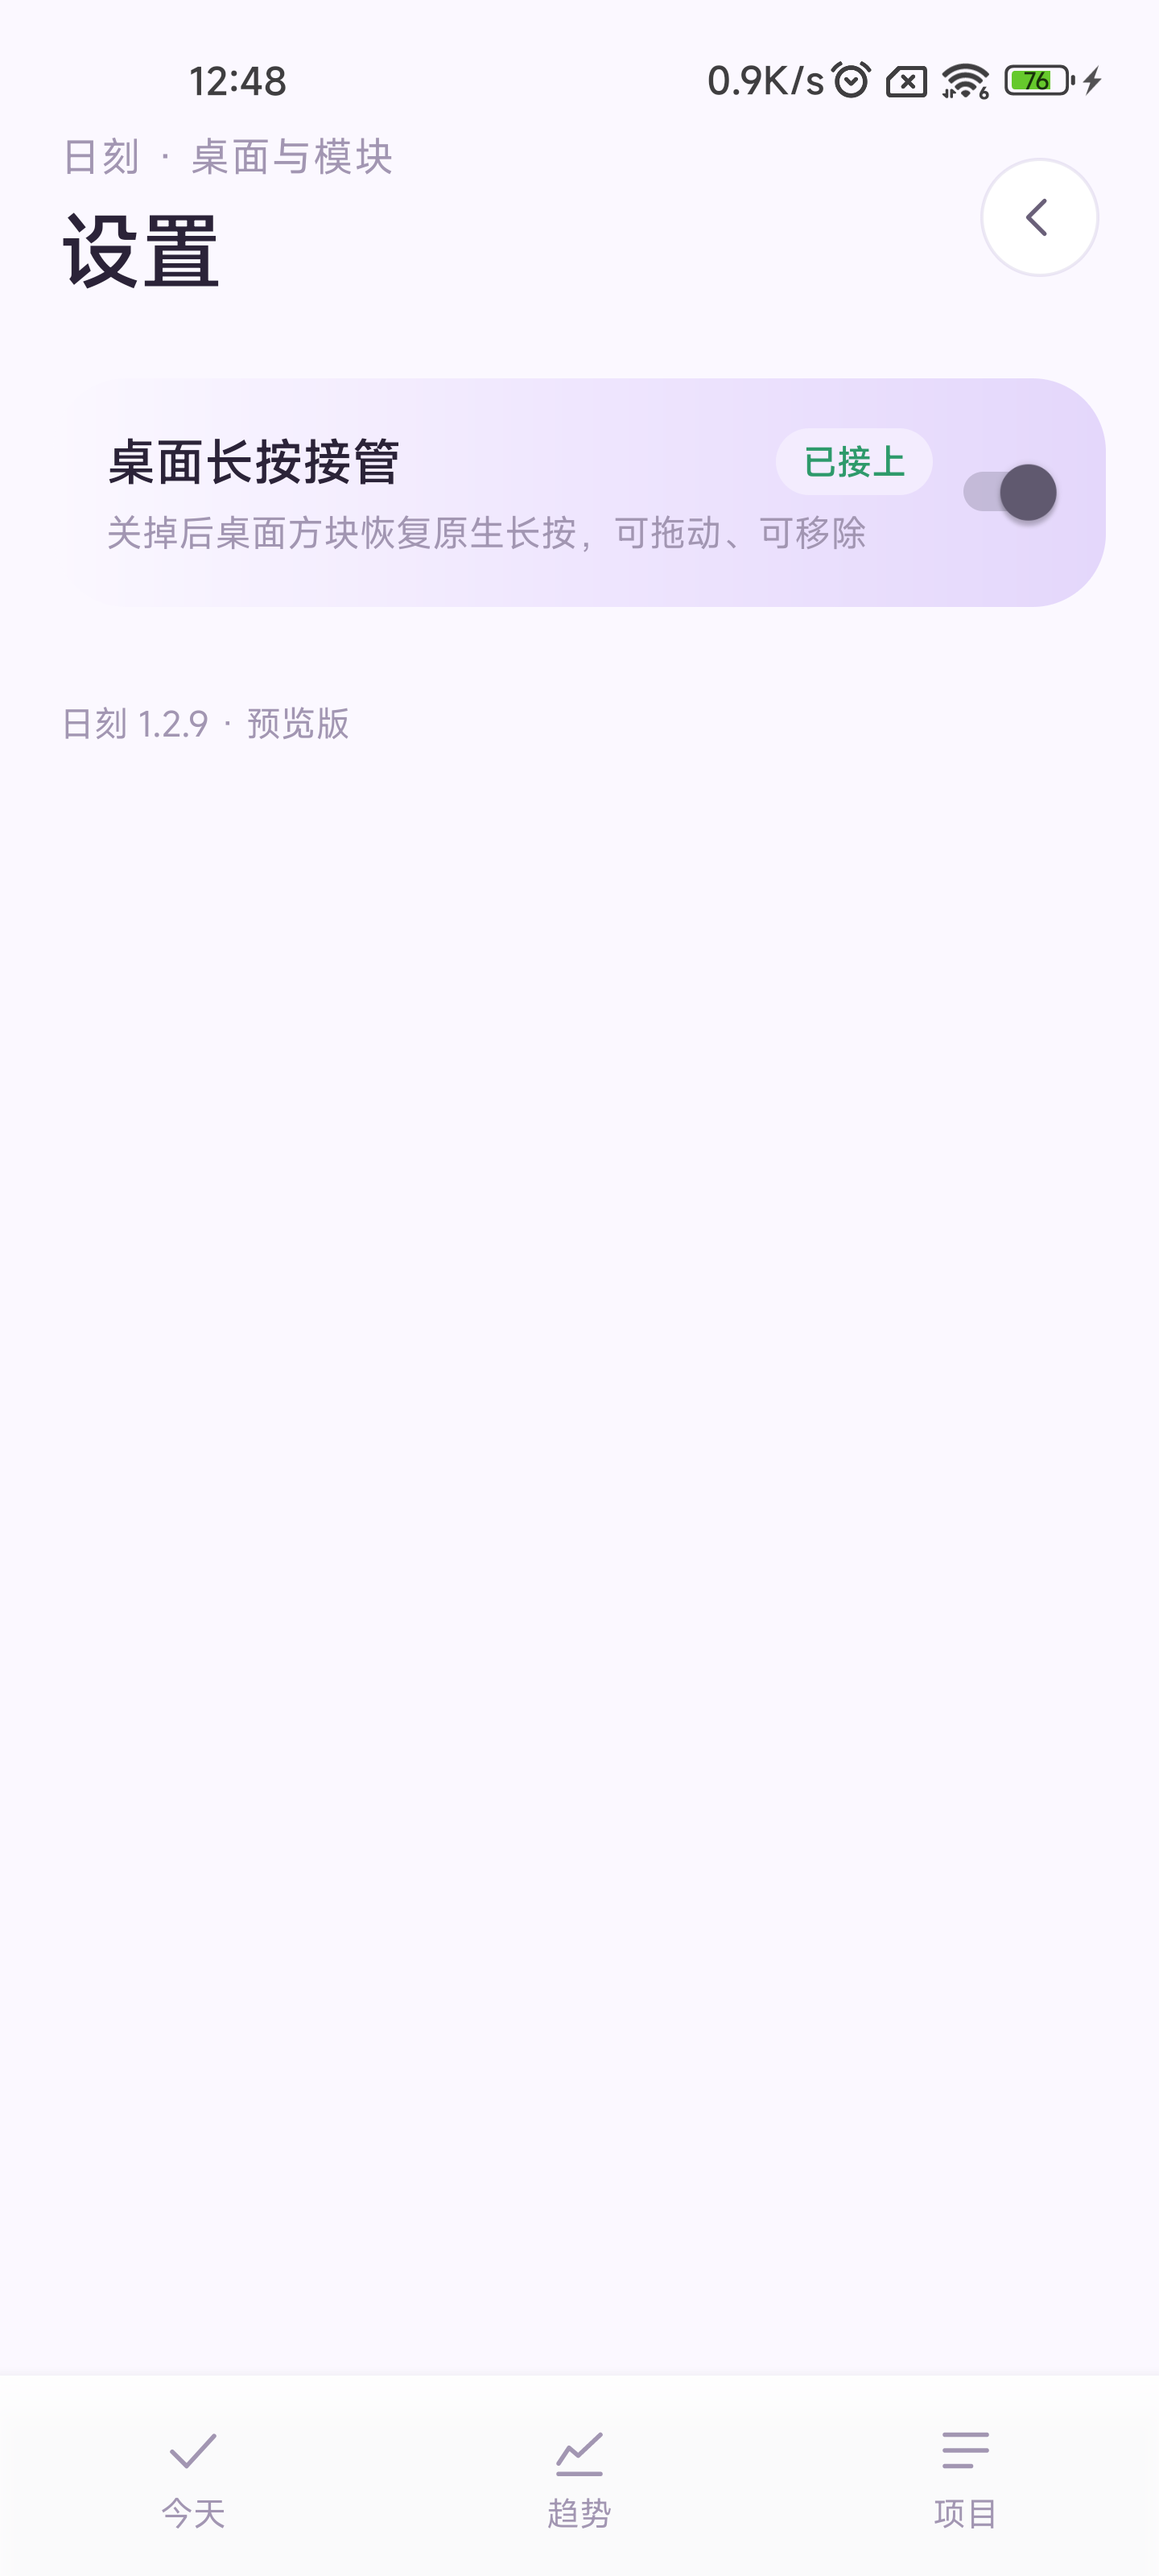
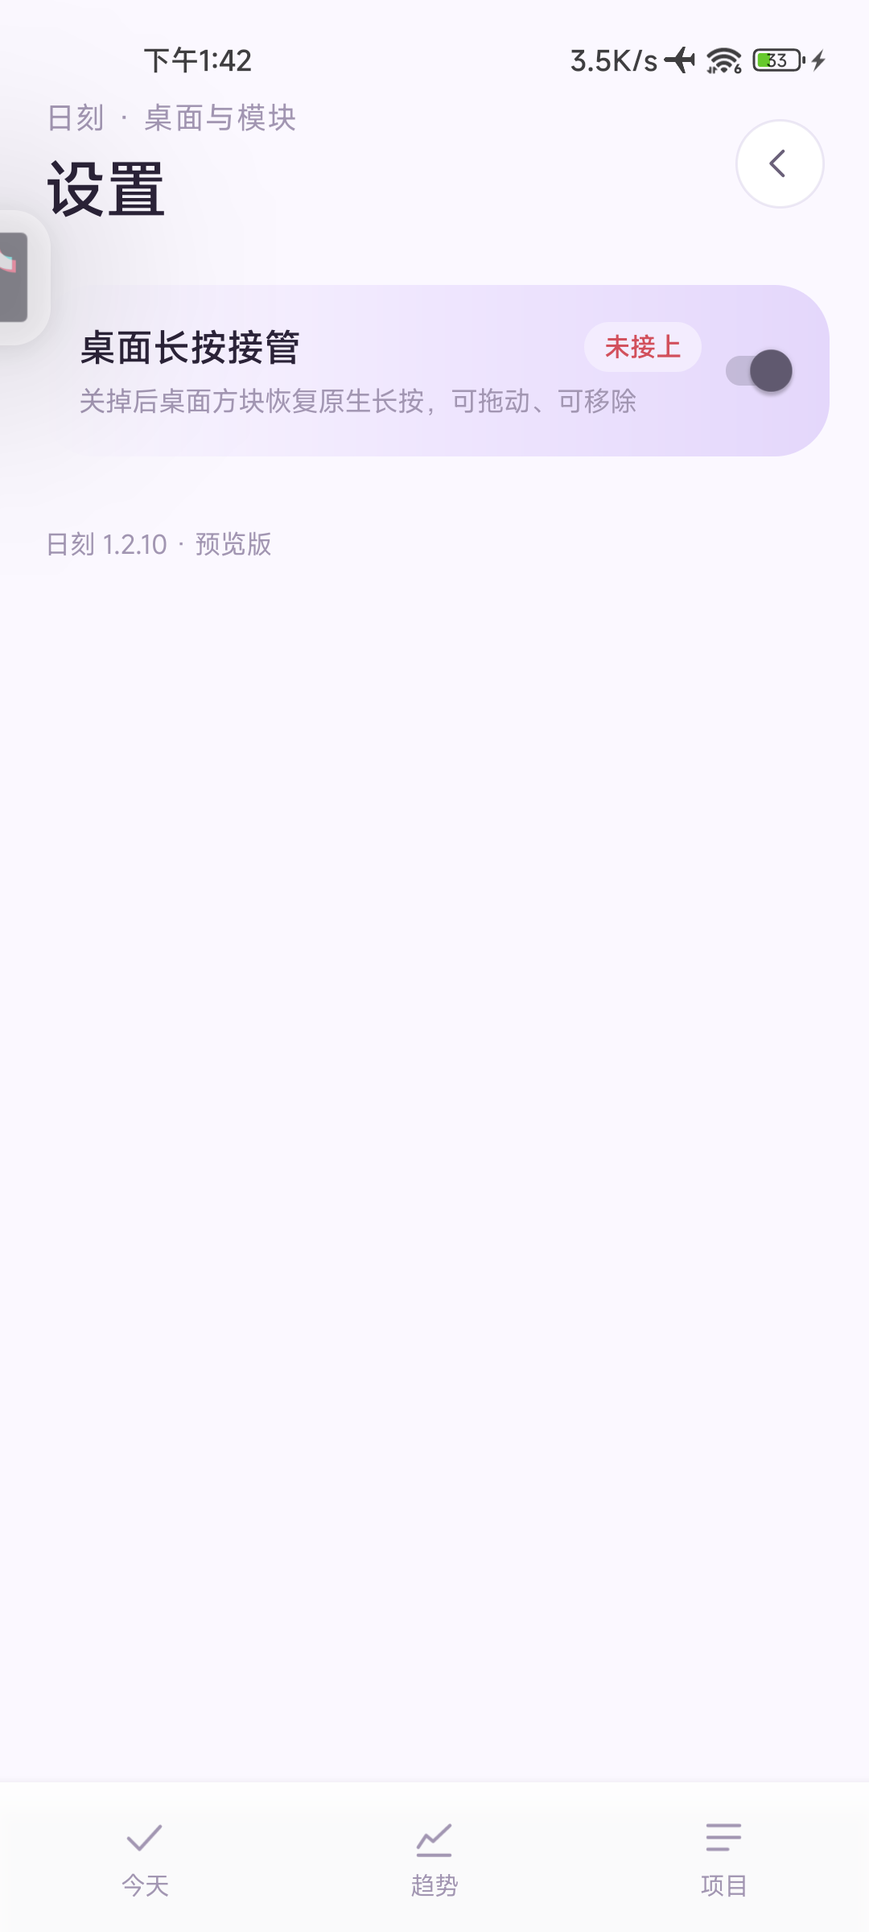
1.2.10：桌面加/减组后 App 今天页立即刷新

diff --git a/DailyScale/app/src/main/java/com/beike/daytally/MainActivity.kt b/DailyScale/app/src/main/java/com/beike/daytally/MainActivity.kt
@@ -50,6 +50,7 @@ class MainActivity : AppCompatActivity() {
     private var lastTabKey = ""
     private var lastTabMs = 0L
     private var syncReceiver: BroadcastReceiver? = null
+    private var dataReceiver: BroadcastReceiver? = null
 
     override fun onCreate(savedInstanceState: Bundle?) {
         super.onCreate(savedInstanceState)
@@ -129,12 +130,30 @@ class MainActivity : AppCompatActivity() {
             this, syncReceiver, IntentFilter(SyncManager.ACTION_SYNCED),
             ContextCompat.RECEIVER_NOT_EXPORTED
         )
+
+        /* 桌面方块加/减组后，WidgetProvider 会主动发这条广播。
+           如果 App 进程还活着，就在这里当场重绘当前页，不用等下一次同步或切 Tab。 */
+        dataReceiver = object : BroadcastReceiver() {
+            override fun onReceive(c: android.content.Context?, i: android.content.Intent?) {
+                repo.ensureToday()
+                refreshCurrent()
+            }
+        }
+        ContextCompat.registerReceiver(
+            this, dataReceiver, IntentFilter(com.beike.daytally.widget.WidgetRefresh.ACTION_DATA_CHANGED),
+            ContextCompat.RECEIVER_NOT_EXPORTED
+        )
+
         /* 顺便把「桌面长按接管」开关的当前状态同步给桌面进程的钩子 */
         com.beike.daytally.ui.ProjectsView.sendHookSwitch(this, com.beike.daytally.ui.ProjectsView.hookEnabled(this))
     }
 
     override fun onStart() {
         super.onStart()
+        /* 从桌面/后台回来时，数据可能已经被方块加/减过；先重绘当前页，不能只做同步。
+           之前这里只发同步请求，同步还没回来时页面会停在旧颜色，切 Tab 才恢复。 */
+        repo.ensureToday()
+        refreshCurrent()
         /* 首次打开；从后台回来也补一次。只在 Wi-Fi 下走，避免拿流量去连家里局域网。 */
         SyncManager.request(this, "app_open")
     }
@@ -142,6 +161,8 @@ class MainActivity : AppCompatActivity() {
     override fun onDestroy() {
         syncReceiver?.let { runCatching { unregisterReceiver(it) } }
         syncReceiver = null
+        dataReceiver?.let { runCatching { unregisterReceiver(it) } }
+        dataReceiver = null
         super.onDestroy()
     }
 
@@ -247,6 +268,16 @@ class MainActivity : AppCompatActivity() {
     private fun openSettings() {
         sound.sheetOpen()
         switchView("settings")
+    }
+
+    /** 只重绘当前可见页：桌面方块改数据、App 回前台都用它，避免隐藏页做无用重建 */
+    private fun refreshCurrent() {
+        when (current) {
+            "home" -> home.render()
+            "trend" -> trend.render()
+            "projects" -> projects.render()
+            "settings" -> settings.render()
+        }
     }
 
     private fun switchView(key: String) {

diff --git a/DailyScale/app/src/main/java/com/beike/daytally/widget/WidgetProvider.kt b/DailyScale/app/src/main/java/com/beike/daytally/widget/WidgetProvider.kt
@@ -123,6 +123,7 @@ open class WidgetProvider(private val key: String) : AppWidgetProvider() {
                 /* 点方块同时把大卡切到这个项目：两者是一套东西，原型里就是这么联动的 */
                 WeekWidget.setCurrentKey(context, k)
                 refreshAll(context)
+                WidgetRefresh.notifyApp(context)
             }
             ACTION_REMOVE -> {
                 /* 来自 Vector 模块：桌面上长按方块 = 退一组 */
@@ -134,6 +135,7 @@ open class WidgetProvider(private val key: String) : AppWidgetProvider() {
                 /* 减组同样把大卡切到这个项目——加/减是同一套联动，原型里不区分 */
                 WeekWidget.setCurrentKey(context, k)
                 refreshAll(context)
+                WidgetRefresh.notifyApp(context)
             }
         }
     }

diff --git a/DailyScale/app/src/main/java/com/beike/daytally/widget/WidgetRefresh.kt b/DailyScale/app/src/main/java/com/beike/daytally/widget/WidgetRefresh.kt
@@ -12,6 +12,17 @@ import com.beike.daytally.Repo
  */
 object WidgetRefresh {
 
+    /** 桌面方块加/减组后，通知还活着的 App 进程重绘当前页，避免“今天”页停在旧颜色 */
+    const val ACTION_DATA_CHANGED = "com.beike.daytally.DATA_CHANGED"
+
+    fun notifyApp(ctx: Context) {
+        runCatching {
+            val i = Intent(ACTION_DATA_CHANGED).setPackage(ctx.packageName)
+            i.addFlags(Intent.FLAG_RECEIVER_FOREGROUND)
+            ctx.sendBroadcast(i)
+        }
+    }
+
     /**
      * 把「每组多少个」同步给桌面模块，方块上那颗浮动数字要用它显示 +12 / −11。
      * 不指定包名，桌面进程里模块动态注册的接收器才收得到。

diff --git a/DailyScale/app/src/main/java/com/beike/daytally/ui/SettingsView.kt b/DailyScale/app/src/main/java/com/beike/daytally/ui/SettingsView.kt
@@ -156,7 +156,7 @@ class SettingsView(
     }
 
     private fun buildVersion(): View = TextView(context).apply {
-        text = "日刻 1.2.9 · 预览版"
+        text = "日刻 1.2.10 · 预览版"
         setTextSize(TypedValue.COMPLEX_UNIT_SP, 10.5f * Ui.S)
         setTextColor(C.INK3)
         setPadding(dp(2f), dp(8f), 0, 0)

diff --git a/README.md b/README.md
@@ -12,9 +12,9 @@
 
 ## 当前版本
 
-**1.2.9**（2026-11-21）——桌面反馈和局域网同步这一轮。桌面方块单击震动改成 **36ms + 最大振幅**，并绕过 Android 13 对后台 App 的震动限制，户外也能感觉到；点方块文字上半部“第一次没反应、之后才正常”的问题修掉，四个方块的文字/数字/圆环都挂了加组点击；设置页删掉单独的“桌面长按体检”卡片，把“已接上 / 该复测了 / 未接上”并进“桌面长按接管”标题行。新增树莓派局域网同步后端（Docker + SQLite）：手机打开 App、Wi‑Fi 重连、每次加组后都会对齐；两台手机同时加组按事件求和，不互相覆盖。完整记录见 [CHANGELOG.md](CHANGELOG.md)。
+**1.2.10**（2026-11-21）——修「桌面方块已经变红/变金，App 今天页还停在旧颜色和旧数字」：桌面加/减组后，`WidgetProvider` 会发数据变更广播；App 在前台就当场重绘当前页，从后台回来时 `onStart` 也先重绘再同步，不用再切「项目」再切回来。真机实测自定义方块 57 组（白）→ 点回 58 组（金），回 App 立刻显示金色 2726；长按减回 57 组，回 App 立刻显示白色 2679。上一版 1.2.9 的桌面震动、首点修复、设置页精简和局域网同步见 [CHANGELOG.md](CHANGELOG.md)。
 
-安装包在 [Releases](https://github.com/seashell666/daytally/releases/tag/v1.2.9)，装完记得重启一次手机让 LSPosed 重新加载桌面钩子。
+安装包在 [Releases](https://github.com/seashell666/daytally/releases/tag/v1.2.10)，装完记得重启一次手机让 LSPosed 重新加载桌面钩子。
 
 ---
 

diff --git a/CHANGELOG.md b/CHANGELOG.md
@@ -1,5 +1,15 @@
 # 更新日志
 
+## v1.2.10 — 2026-11-21
+
+**桌面方块的颜色变了，App 里的今天页也立刻跟着变，不用再切页面。**
+
+- **根因**：`WidgetProvider` 的加组/减组长按只调用 `refreshAll()` 刷新桌面组件，没有通知 App；`MainActivity.onStart()` 只发同步请求，没有重绘当前页，同步没回来时页面就停在旧数据。`HomeView.render()` 本身每次都会重建卡片，所以之前只有切到「项目」再切回「今天」才会恢复
+- **修复**：`WidgetRefresh` 新增 `ACTION_DATA_CHANGED` 和 `notifyApp()`；`WidgetProvider` 在 `ACTION_ADD` / `ACTION_REMOVE` 刷新桌面后发广播；`MainActivity` 动态注册 `dataReceiver`，收到广播当场 `refreshCurrent()`，`onStart()` 先 `repo.ensureToday()` + 重绘再同步，`onDestroy()` 注销
+- **真机实测（旧手机 Xiaomi 11 / Android 13）**：自定义 57 组（30 天累计 9964，未达标）先显示白色 2679；点方块加到 58 组（累计 10011，达标），返回 App「今天」页立刻变成金色 2726；长按减回 57 组，返回 App 立刻变回白色 2679。两次都没有切 Tab
+- **文档与截图**：设置页截图更新为「日刻 1.2.10 · 预览版」；README 当前版本与安装链接改到 1.2.10
+- **构建**：`versionCode 13` / `versionName "1.2.10"`；公开包不读 `sync.properties`，带 Token 的本地同步包仍单独构建、只留本机
+
 ## v1.2.9 — 2026-11-21
 
 **桌面手感补强，方块首点不再“看运气”，数据开始在家里同步。**
